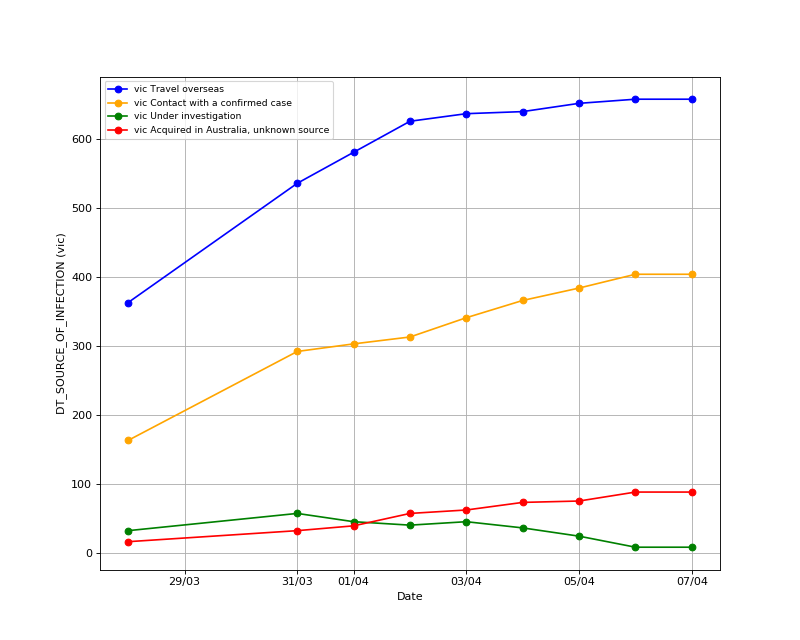
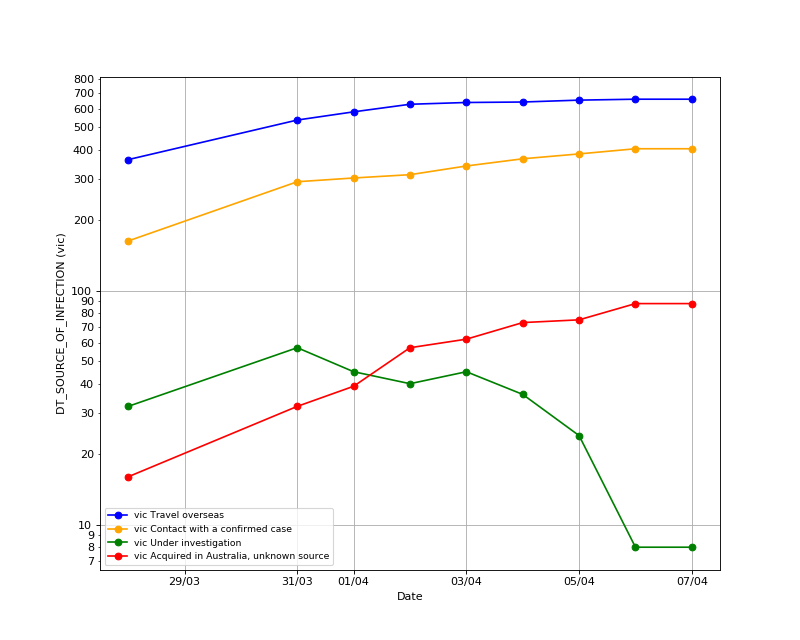
made graphs with values > 50 use a logarithmic scale

diff --git a/output_graphs/output_graphs.py b/output_graphs/output_graphs.py
@@ -98,6 +98,7 @@ def output_graph(datatype,
         state_filter = (state_filter,)
 
     plt.figure(figsize=(10, 8), dpi=80)
+    max_y = 0
 
     for x, (k, v) in enumerate(read_csv(
         datatype, name_filter, value_filter, state_filter
@@ -105,6 +106,10 @@ def output_graph(datatype,
         print(k)
         X = np.array([i[0] for i in v])
         Y = [i[1] for i in v]
+
+        for i in Y:
+            if max_y < i:
+                max_y = i
 
         plt.plot(
             X, Y,
@@ -135,6 +140,15 @@ def output_graph(datatype,
 
     plt.xlabel('Date')
     plt.ylabel(y_label)
+
+    if max_y > 50:
+        plt.yscale('log')
+        from matplotlib.ticker import ScalarFormatter
+        for axis in [ax.yaxis]:
+            axis.set_major_formatter(ScalarFormatter())
+            formatter = axis.get_major_formatter()
+            axis.set_minor_formatter(formatter)
+
     plt.legend(prop=fontP)
     plt.grid()
     #plt.show()
@@ -176,6 +190,7 @@ def output_graphs():
     output_graph('DT_SOURCE_OF_INFECTION', state_filter='nsw')
     output_graph('DT_SOURCE_OF_INFECTION', state_filter='act')
     output_graph('DT_PATIENT_STATUS', state_filter='sa')
+    output_graph('DT_PATIENT_STATUS', state_filter='vic')
     output_graph('DT_PATIENT_STATUS', state_filter='act')
     output_graph('DT_PATIENT_STATUS', state_filter='nsw')
     output_graph('DT_PATIENT_STATUS', state_filter='wa')
